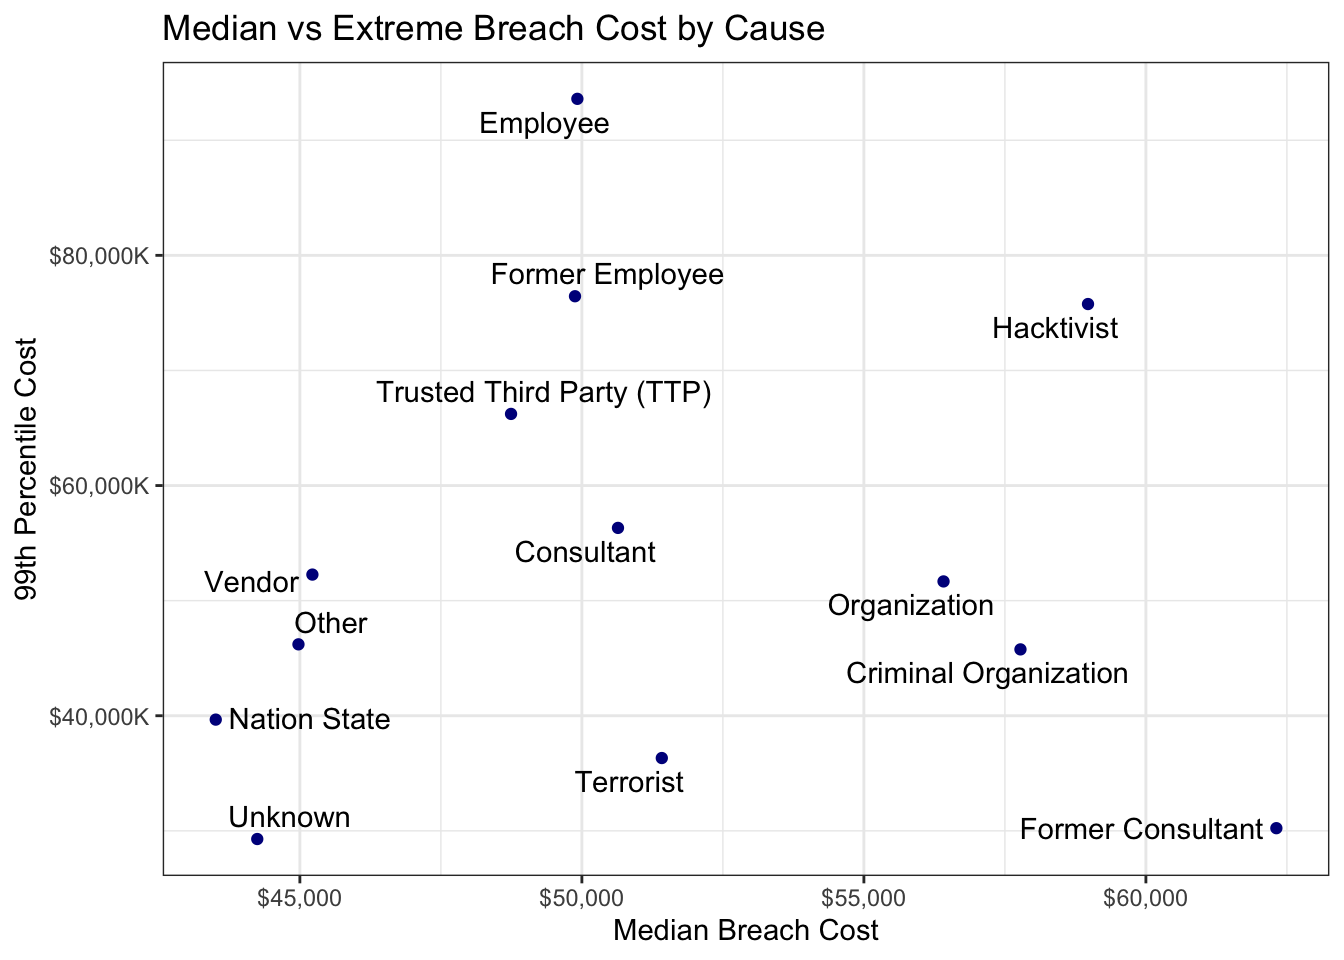
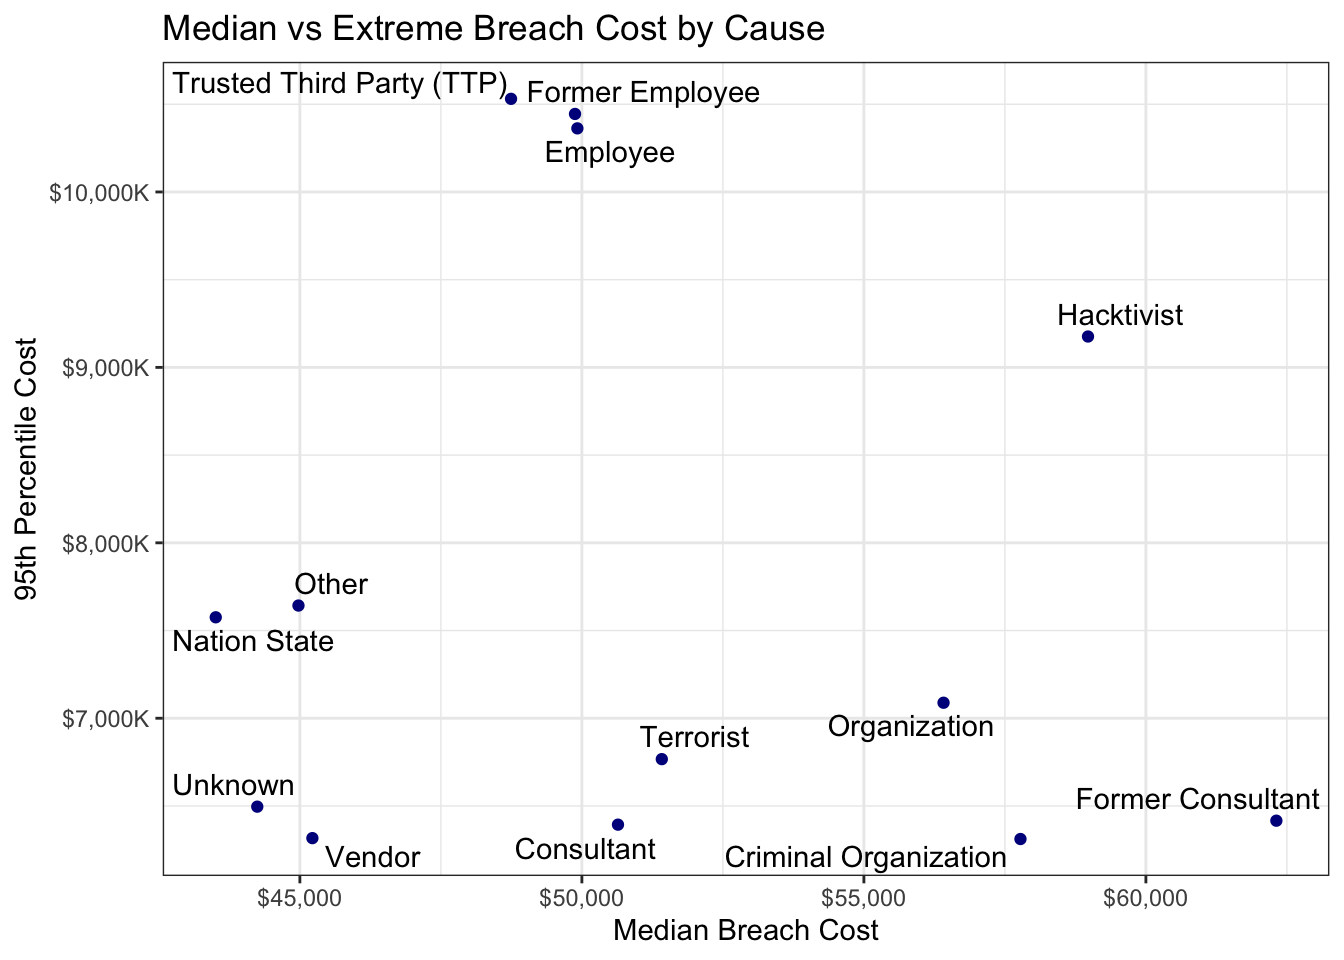
touch up edits

diff --git a/r/cyentia_breaches.html b/r/cyentia_breaches.html
@@ -135,7 +135,7 @@ code span.wa { color: #60a0b0; font-weight: bold; font-style: italic; } /* Warni
 
 </div>
 <section id="data-summary" class="level3">
-<h3 class="anchored" data-anchor-id="data-summary">Data Summary</h3>
+<h3 class="anchored" data-anchor-id="data-summary">Data summary</h3>
 <p>The <code>skimr</code> package provides a convenient, quick overview of the data.</p>
 <div class="cell">
 <div class="sourceCode cell-code" id="cb1"><pre class="sourceCode r code-with-copy"><code class="sourceCode r"><span id="cb1-1"><a href="#cb1-1" aria-hidden="true" tabindex="-1"></a>breaches_skim <span class="ot">&lt;-</span> skimr<span class="sc">::</span><span class="fu">skim</span>(breaches, <span class="sc">-</span><span class="fu">c</span>(id, breach_year))</span>
@@ -358,7 +358,7 @@ code span.wa { color: #60a0b0; font-weight: bold; font-style: italic; } /* Warni
 </table>
 </div>
 </div>
-<p>A few things immediately stand out:</p>
+<p>A few things stand out:</p>
 <ul>
 <li><code>affected_count</code> &amp; <code>total_amount</code> are extremely skewed and there are breaches that apparently impacted zero records and had zero dollar cost (13.7% of all breaches)</li>
 <li><code>sector</code> &amp; <code>cause</code> both are missing in some cases</li>
@@ -406,10 +406,10 @@ code span.wa { color: #60a0b0; font-weight: bold; font-style: italic; } /* Warni
 </div>
 </div>
 </div>
-<p>This makes me wonder if the distribution of the raw number of breaches by <code>cause</code> over time are representative samples or if they’re an artificially balanced subsample from a larger data set. As a result, I suspect that comparisons of simple counts of breaches over time or the number breaches between different <code>cause</code>s will be unlikely to show significant differences.</p>
+<p>This makes me wonder if the distribution of the raw number of breaches by <code>cause</code> and over time are representative samples or if they’re an artificially balanced subsample from a larger data set. As a result, I suspect that comparisons of simple counts of breaches over time or the number breaches between different <code>cause</code> will be unlikely to show significant differences.</p>
 </section>
 <section id="breach-cost-vs-affected-records-by-naic-sector" class="level3">
-<h3 class="anchored" data-anchor-id="breach-cost-vs-affected-records-by-naic-sector">Breach Cost vs Affected Records by NAIC Sector</h3>
+<h3 class="anchored" data-anchor-id="breach-cost-vs-affected-records-by-naic-sector">Breach cost vs affected records by NAIC sector</h3>
 <p>First we look at potential differences between NAIC sectors with respect to:</p>
 <ul>
 <li>Percent of breaches with nonzero cost/affected records</li>
@@ -430,31 +430,33 @@ code span.wa { color: #60a0b0; font-weight: bold; font-style: italic; } /* Warni
 <li>Business &amp; Professional Orgs (lawyer/doctor/dentist orgs, trade groups, chambers of commerce)</li>
 </ul>
 <p>These are all organizations that likely store large amounts of member information but may not see themselves as likely cyberattack targets, or may have extremely limited IT security resources at their disposal.</p>
+<p>Most of the sectors have roughly similar proportions of breaches with zero affected records, with the exception of Entertainment, Utilities &amp; Agriculture.</p>
 </section>
 <section id="cost-per-breach-by-cause" class="level3">
-<h3 class="anchored" data-anchor-id="cost-per-breach-by-cause">Cost Per Breach by Cause</h3>
-<p>Evaluating the cost per breach is complicated by its skewed nature. There are a significant number of breaches with zero cost and the occassional breach with extremely large costs. We’d like to convey both what a “typical” risk is and also what the extreme end of the risk may be. To do this, we can show a scatterplot of the 50th &amp; 99th quantiles by breach cause.</p>
+<h3 class="anchored" data-anchor-id="cost-per-breach-by-cause">Cost per breach by cause</h3>
+<p>Evaluating the cost per breach is complicated by its skewed nature. There are a significant number of breaches with zero cost and the occasional breach with extremely large costs. We’d like to convey both what a “typical” risk is and also what the extreme end of the risk may be. To do this, we can show a scatterplot of the 50th &amp; 99th quantiles by breach cause.</p>
 <div class="cell">
 <div class="cell-output-display">
 <p><img src="cyentia_breaches_files/figure-html/cost_per_breach-1.png" class="img-fluid" width="672"></p>
 </div>
 </div>
-<p>Breaches caused by criminal organizations &amp; former consultants have some of the highest median costs per breach, but are less likely to generate extremely high cost breaches compared to other causes.</p>
-<p>Beaches caused by employees or former employees have somewhat lower median costs per breach, but the risk of an extremely expensive breach from these sources is considerably higher.</p>
+<p>Breaches caused by former consultant have some of the highest median costs per breach, but appear less likely to generate extremely high cost breaches compared to other causes.</p>
+<p>Beaches caused by employees, former employees or trusted third parties have somewhat lower median costs, but the risk of an extremely expensive breach from these sources is considerably higher.</p>
+<p>Hacktivist breaches are arguably the worst, as they have relatively high median <em>and</em> extreme breach costs.</p>
 </section>
 <section id="trends-in-breach-cost-by-cause" class="level3">
-<h3 class="anchored" data-anchor-id="trends-in-breach-cost-by-cause">Trends in Breach Cost by Cause</h3>
-<p>Because the breach cost variable <code>total_amount</code> is so heavily skewed, we will estimate trends of quantiles, again focusing on an estimate of the “typical” cost (median) as well as an “extreme” cost (95%-tile).</p>
-<p>To do this we fit a linear quantile regression model:</p>
+<h3 class="anchored" data-anchor-id="trends-in-breach-cost-by-cause">Trends in breach cost by cause</h3>
+<p>Again, because the breach cost variable <code>total_amount</code> is so heavily skewed, we will estimate trends of quantiles, again focusing on an estimate of the “typical” cost (median) as well as an “extreme” cost (95%-tile).</p>
+<p>One option for accomplishing this is to fit a linear quantile regression model on the log transformed breach cost:</p>
 <p><span class="math display">\[
-log(totalamount + 1) = \beta_0 + \beta_1 breachdate + \beta_2 cause + \beta_3(breachdate*cause)
+log(total\_amount + 1) = \beta_0 + \beta_1 breach\_date + \beta_2 cause + \beta_3(breach\_date*cause)
 \]</span></p>
-<p>This means that the breach cause specific trend estimate is the sum <span class="math inline">\(\beta_1 + \beta_3\)</span> for each <code>cause</code>.</p>
+<p>Quantile regression models estimate the conditional quantiles of the response variable instead of the conditional mean, as in a traditional linear model. In this case the breach cause specific trend estimate is the sum of the coefficients <span class="math inline">\(\beta_1 + \beta_3\)</span> for each <code>cause</code>.</p>
 <div class="cell" data-hash="cyentia_breaches_cache/html/quantile-reg_2270aacfef350eef2a4bd2ff7aede53b">
 
 </div>
 <section id="coefficient-summary" class="level4">
-<h4 class="anchored" data-anchor-id="coefficient-summary">Coefficient Summary</h4>
+<h4 class="anchored" data-anchor-id="coefficient-summary">Coefficient summary</h4>
 <p>The resulting trend estimates are summarised in the plot and table below.</p>
 <div class="columns">
 <div class="column">
@@ -923,29 +925,29 @@ log(totalamount + 1) = \beta_0 + \beta_1 breachdate + \beta_2 cause + \beta_3(br
   </thead>
   <tbody class="gt_table_body">
     <tr><td headers="term" class="gt_row gt_left">Criminal Organization</td>
-<td headers="Quantile: 0.5" class="gt_row gt_right" style="font-style: italic;">-7.5% (-18.5%,0.9%)</td>
+<td headers="Quantile: 0.5" class="gt_row gt_right" style="color: #FF8C00; font-style: italic;">-7.5% (-18.5%,0.9%)</td>
 <td headers="Quantile: 0.95" class="gt_row gt_right">-3.8% (-19.5%,18.6%)</td></tr>
     <tr><td headers="term" class="gt_row gt_left">Employee</td>
 <td headers="Quantile: 0.5" class="gt_row gt_right">1.0% (-8.4%,11.1%)</td>
 <td headers="Quantile: 0.95" class="gt_row gt_right">-0.7% (-20.5%,22.5%)</td></tr>
     <tr><td headers="term" class="gt_row gt_left">Former Consultant</td>
-<td headers="Quantile: 0.5" class="gt_row gt_right" style="font-style: italic; font-weight: bold;">-12.3% (-22.7%,-0.4%)</td>
+<td headers="Quantile: 0.5" class="gt_row gt_right" style="color: #FF8C00; font-style: italic; font-weight: bold;">-12.3% (-22.7%,-0.4%)</td>
 <td headers="Quantile: 0.95" class="gt_row gt_right">2.0% (-10.9%,18.0%)</td></tr>
     <tr><td headers="term" class="gt_row gt_left">Former Employee</td>
 <td headers="Quantile: 0.5" class="gt_row gt_right">4.1% (-4.8%,14.0%)</td>
 <td headers="Quantile: 0.95" class="gt_row gt_right">-1.5% (-19.9%,11.6%)</td></tr>
     <tr><td headers="term" class="gt_row gt_left">Hacktivist</td>
 <td headers="Quantile: 0.5" class="gt_row gt_right">0.6% (-11.0%,8.6%)</td>
-<td headers="Quantile: 0.95" class="gt_row gt_right" style="font-style: italic;">10.6% (-5.4%,31.6%)</td></tr>
+<td headers="Quantile: 0.95" class="gt_row gt_right" style="color: #FF8C00; font-style: italic;">10.6% (-5.4%,31.6%)</td></tr>
     <tr><td headers="term" class="gt_row gt_left">Nation State</td>
 <td headers="Quantile: 0.5" class="gt_row gt_right">-3.1% (-18.3%,8.4%)</td>
-<td headers="Quantile: 0.95" class="gt_row gt_right" style="font-style: italic;">8.1% (-12.2%,20.7%)</td></tr>
+<td headers="Quantile: 0.95" class="gt_row gt_right" style="color: #FF8C00; font-style: italic;">8.1% (-12.2%,20.7%)</td></tr>
     <tr><td headers="term" class="gt_row gt_left">Organization</td>
 <td headers="Quantile: 0.5" class="gt_row gt_right">-1.5% (-8.4%,10.0%)</td>
-<td headers="Quantile: 0.95" class="gt_row gt_right" style="font-style: italic;">12.4% (-10.4%,30.1%)</td></tr>
+<td headers="Quantile: 0.95" class="gt_row gt_right" style="color: #FF8C00; font-style: italic;">12.4% (-10.4%,30.1%)</td></tr>
     <tr><td headers="term" class="gt_row gt_left">Other</td>
 <td headers="Quantile: 0.5" class="gt_row gt_right">3.0% (-4.0%,11.6%)</td>
-<td headers="Quantile: 0.95" class="gt_row gt_right" style="font-style: italic; font-weight: bold;">16.2% (0.0%,23.5%)</td></tr>
+<td headers="Quantile: 0.95" class="gt_row gt_right" style="color: #FF8C00; font-style: italic; font-weight: bold;">16.2% (0.0%,23.5%)</td></tr>
     <tr><td headers="term" class="gt_row gt_left">Terrorist</td>
 <td headers="Quantile: 0.5" class="gt_row gt_right">-4.4% (-14.1%,5.3%)</td>
 <td headers="Quantile: 0.95" class="gt_row gt_right">0.2% (-22.4%,14.8%)</td></tr>
@@ -974,8 +976,8 @@ log(totalamount + 1) = \beta_0 + \beta_1 breachdate + \beta_2 cause + \beta_3(br
 </ul>
 <p>While the remaining trends don’t appear statistically significant, several of the estimated trends are fairly large. These include large estimated growth rates in the 95%-tile breach cost caused by Nation States, Hacktivists &amp; Organizations.</p>
 </section>
-<section id="examples-of-causes-with-large-95-tile-changes" class="level4">
-<h4 class="anchored" data-anchor-id="examples-of-causes-with-large-95-tile-changes">Examples of Causes with large 95%-tile changes</h4>
+<section id="examples-of-breach-causes-with-large-95-tile-changes" class="level4">
+<h4 class="anchored" data-anchor-id="examples-of-breach-causes-with-large-95-tile-changes">Examples of breach causes with large 95%-tile changes</h4>
 <p>Finally, we can visualize some of the larger trend estimates, on a log scale.</p>
 <div class="cell">
 <div class="cell-output-display">
@@ -985,7 +987,7 @@ log(totalamount + 1) = \beta_0 + \beta_1 breachdate + \beta_2 cause + \beta_3(br
 </section>
 </section>
 <section id="further-questions" class="level3">
-<h3 class="anchored" data-anchor-id="further-questions">Further Questions</h3>
+<h3 class="anchored" data-anchor-id="further-questions">Further questions</h3>
 <ul>
 <li>Explore various missing &amp; unknown features in the data
 <ul>
